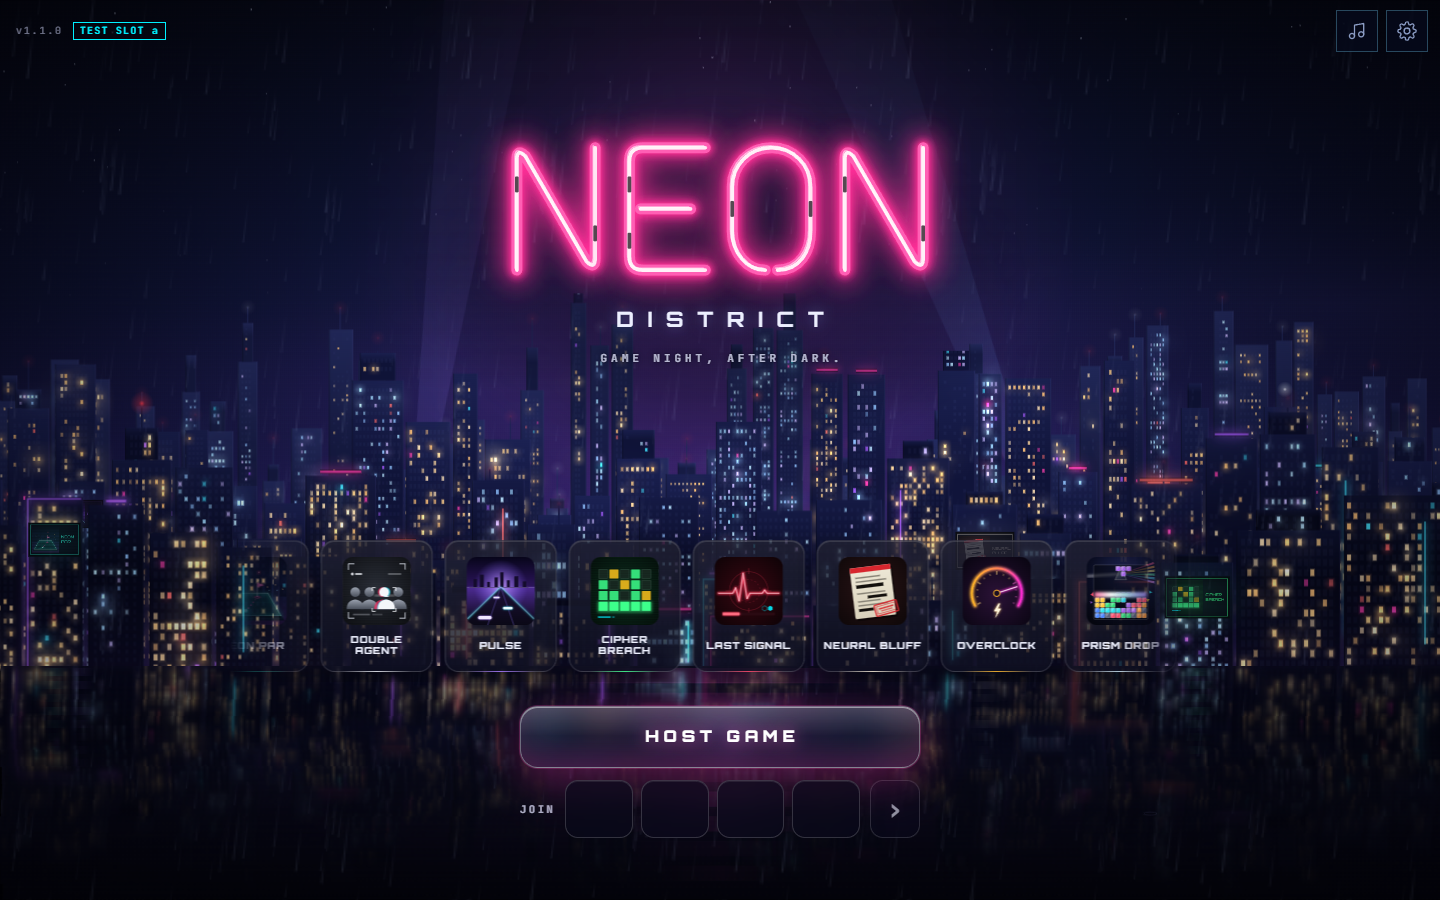
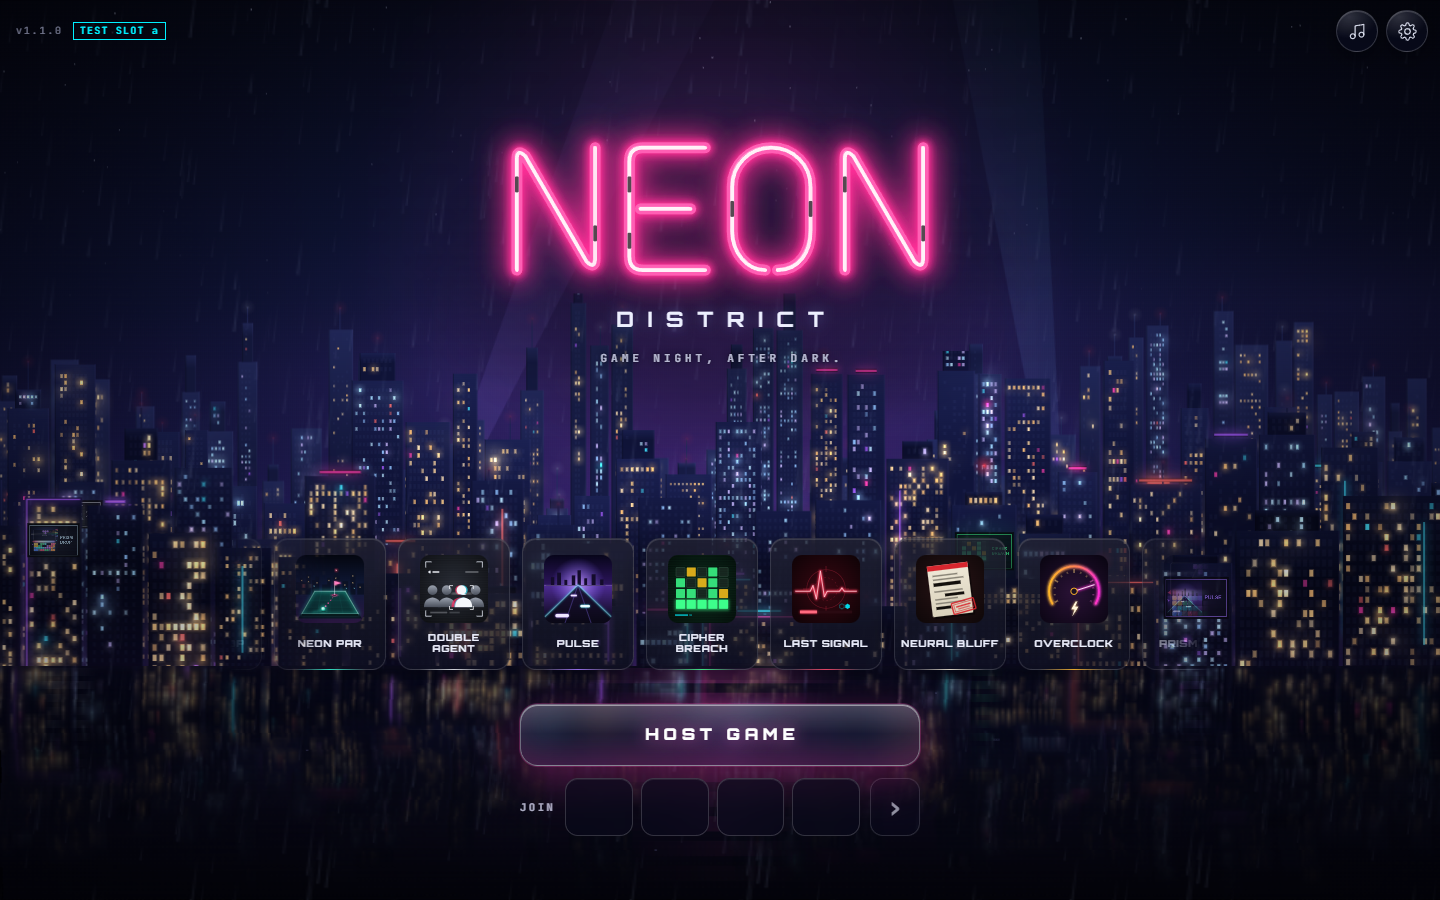
Glass corner buttons; "Welcome back" under the join boxes
- Settings, music and chat buttons are frosted-glass circles (same size, so no
  layout moves) instead of the old square teal-outlined boxes
- Title: "Welcome back" sits under the code boxes, sharing that line with join
  messages; the game showcase drops lower, showing more of the city

diff --git a/css/components.css b/css/components.css
@@ -782,3 +782,23 @@ body[data-theme]:not([data-theme='']) .music-btn { display: none; }
   .toasts { left: calc(var(--safe-l) + 12px); width: calc(100vw - var(--safe-l) - var(--safe-r) - 78px); transform: none; }
 }
 .set-sub { margin-top: 6px; font-family: var(--font-mono); font-size: 10px; font-weight: 700; letter-spacing: 0.3em; color: var(--text-faint); border-top: 1px solid var(--line-2); padding-top: 12px; }
+
+/* ---- corner buttons (settings, music, chat): small frosted-glass circles that catch the light behind them ---- */
+.gear, .music-btn, .chat-fab {
+  border-radius: 50%;
+  color: rgba(236, 240, 255, 0.88);
+  background:
+    radial-gradient(120% 90% at 30% 15%, rgba(255, 255, 255, 0.16), rgba(255, 255, 255, 0) 60%),
+    rgba(12, 14, 34, 0.42);
+  border: 1px solid rgba(255, 255, 255, 0.16);
+  box-shadow: inset 0 1px 0 rgba(255, 255, 255, 0.14), 0 6px 18px rgba(0, 0, 0, 0.32);
+  -webkit-backdrop-filter: blur(12px) saturate(140%);
+  backdrop-filter: blur(12px) saturate(140%);
+  -webkit-tap-highlight-color: transparent;
+}
+.gear svg, .music-btn svg { width: 19px; height: 19px; stroke-width: 1.5; }
+.gear:active, .music-btn:active, .chat-fab:active { background-color: rgba(255, 255, 255, 0.14); }
+.gear.is-muted, .music-btn.is-off { color: #ff9db4; border-color: rgba(255, 140, 170, 0.34); }
+.gear.is-muted::after { width: 22px; height: 1.5px; border-radius: 1px; }
+.chat-fab.is-locked { color: rgba(236, 240, 255, 0.5); opacity: 0.7; }
+.cf-lock { border-radius: 4px; background: rgba(12, 14, 34, 0.9); }

diff --git a/js/screens/title.js b/js/screens/title.js
@@ -287,15 +287,15 @@ export function createTitle() {
     els.boxes = [0, 1, 2, 3].map(i => h('span.nd-box', { style: { '--i': i } }));
     els.go = h('button.nd-go', { type: 'button', 'aria-label': 'Join room', onclick: () => (els.code.value.length === 4 ? join(els.code.value) : els.code.focus()) }, '›');
     els.msg = h('p.nd-msg', { role: 'status', 'aria-live': 'polite' });
+    // under the code boxes, one line: a join message when there is one, otherwise "Welcome back"
     return h('section.nd-actions',
-      els.welcome,
       els.rejoin,
       els.host,
       h('div.nd-join',
         h('span.nd-join-label', 'JOIN'),
         h('label.nd-codebox', { onpointerdown: () => setTimeout(() => els.code.focus(), 0) }, els.code, ...els.boxes),
         els.go),
-      els.msg);
+      h('div.nd-foot', els.msg, els.welcome));
   }
 
   function update(state) {

diff --git a/css/title.css b/css/title.css
@@ -363,7 +363,10 @@ body.nd-on .music-btn { right: calc(var(--safe-r) + 62px); }
   transition: color 0.2s, border-color 0.2s, box-shadow 0.2s;
 }
 .nd-go.is-ready { color: #fff; border-color: rgba(255, 90, 180, 0.8); box-shadow: 0 0 18px rgba(255, 60, 170, 0.35); }
-.nd-msg { margin: 0; min-height: 34px; font-size: 12.5px; line-height: 1.4; color: rgba(222, 228, 255, 0.82); }
+.nd-foot { display: flex; justify-content: center; align-items: center; min-height: 36px; }
+.nd-msg { margin: 0; font-size: 12.5px; line-height: 1.4; color: rgba(222, 228, 255, 0.82); }
+.nd-msg:empty { display: none; }
+.nd-msg:not(:empty) + .nd-welcome { display: none; }
 .nd-msg[data-kind='warn'] { color: #ffc2d6; }
 
 /* ---- preview sheet ---- */
